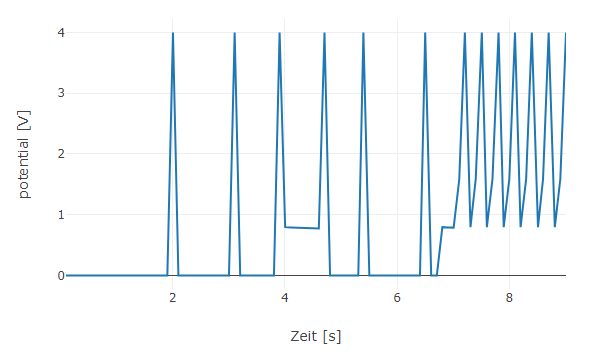
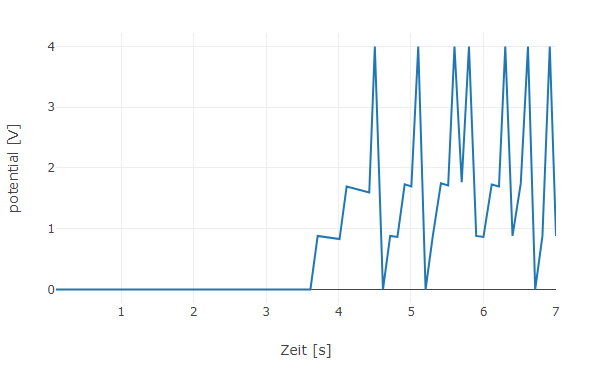
experiments

diff --git a/documentation.html b/documentation.html
@@ -15,12 +15,15 @@
 <body class="container mt-2 mb-2">
     
 
+<div id="documentation">
+
 <h1>Dokumentation   <a href="./">Zur&uuml;ck zur Neuronen Simulation</a>  <a href="https://github.com/VerrroS/spiking-neurons" id="github" target="_blank"><span class="iconify" data-icon="akar-icons:github-fill"></span></a></h1>
 <h2>Technische Dokumentation</h2>
 <p>Ich habe mich gegen ein Framework wie Tensorflow entschieden. Die Lösung ist nur in JavaScript, Html und Css implementiert. Zusätzlich habe ich <a href="https://plotly.com/javascript/">Plotly.js</a> verwendet um die Signale der einzelnen Neuronen grafisch anzuzeigen.
 Um das Layout zu gestalten habe ich <a href="https://getbootstrap.com/">Bootstrap</a> und <a href="https://iconify.design/">Iconify</a> verwendet.</p>
 <h2>Fachliche Dokumentation</h2>
-<p>Die Klasse <strong>Neuron</strong> beinhaltet die wichtigste Logik der Simulation. Ein Neuron wird initalisiert mit einem Rest Potential, einer Spike Threshold, einem leakage Wert und einer Synaptic weight. Diese Werte können vom Benutzer eingestellt werden.</p>
+<p>Die Klasse <strong>Neuron</strong> beinhaltet die wichtigste Logik der Simulation. Ein Neuron wird initalisiert mit einem Rest Potential, einer Spike Threshold, einem leakage Wert und einer Synaptic weight. Diese Werte können vom Benutzer eingestellt werden.
+Jedes Neuron hat eine Liste von anderen Neuronen, die mit diesem verbunden sind.</p>
 <div class="codehilite"><pre><span></span><code><span class="k">class</span><span class="w"> </span><span class="n">Neuron</span><span class="w"> </span><span class="p">{</span><span class="w"></span>
 <span class="w">    </span><span class="n">constructor</span><span class="p">(</span><span class="n">x</span><span class="p">,</span><span class="w"> </span><span class="n">y</span><span class="p">,</span><span class="w"> </span><span class="n">neuron_id</span><span class="p">,</span><span class="w"> </span><span class="n">leakage</span><span class="p">,</span><span class="w"> </span><span class="n">synaptic_weight</span><span class="p">,</span><span class="w"> </span><span class="n">spike_threshold</span><span class="p">){</span><span class="w"></span>
 <span class="w">        </span><span class="n">this</span><span class="o">.</span><span class="n">x</span><span class="w"> </span><span class="o">=</span><span class="w"> </span><span class="n">x</span><span class="p">;</span><span class="w"></span>
@@ -32,7 +35,7 @@ Um das Layout zu gestalten habe ich <a href="https://getbootstrap.com/">Bootstra
 <span class="w">        </span><span class="n">this</span><span class="o">.</span><span class="n">leakage</span><span class="w"> </span><span class="o">=</span><span class="w"> </span><span class="n">parseFloat</span><span class="p">(</span><span class="n">leakage</span><span class="p">);</span><span class="w"></span>
 <span class="w">        </span><span class="n">this</span><span class="o">.</span><span class="n">synaptic_weight</span><span class="w"> </span><span class="o">=</span><span class="w"> </span><span class="n">parseFloat</span><span class="p">(</span><span class="n">synaptic_weight</span><span class="p">);</span><span class="w"></span>
 <span class="w">        </span><span class="n">this</span><span class="o">.</span><span class="n">spike_threshold</span><span class="w"> </span><span class="o">=</span><span class="w"> </span><span class="n">parseFloat</span><span class="p">(</span><span class="n">spike_threshold</span><span class="p">);</span><span class="w"></span>
-<span class="w">        </span><span class="n">this</span><span class="o">.</span><span class="n">timestep</span><span class="w"> </span><span class="o">=</span><span class="w"> </span><span class="mf">0.01</span><span class="p">;</span><span class="w"></span>
+<span class="w">        </span><span class="n">this</span><span class="o">.</span><span class="n">timestep</span><span class="w"> </span><span class="o">=</span><span class="w"> </span><span class="mi">1</span><span class="p">;</span><span class="w"></span>
 <span class="w">        </span><span class="n">this</span><span class="o">.</span><span class="n">circle</span><span class="w"> </span><span class="o">=</span><span class="w"> </span><span class="n">document</span><span class="o">.</span><span class="n">createElementNS</span><span class="p">(</span><span class="n">svgns</span><span class="p">,</span><span class="w"> </span><span class="s2">&quot;circle&quot;</span><span class="p">);</span><span class="w"></span>
 <span class="w">        </span><span class="n">this</span><span class="o">.</span><span class="n">circle</span><span class="o">.</span><span class="n">classList</span><span class="o">.</span><span class="n">add</span><span class="p">(</span><span class="s2">&quot;neuron&quot;</span><span class="p">);</span><span class="w"></span>
 <span class="w">        </span><span class="n">this</span><span class="o">.</span><span class="n">circle</span><span class="o">.</span><span class="n">classList</span><span class="o">.</span><span class="n">add</span><span class="p">(</span><span class="s2">&quot;svg_element&quot;</span><span class="p">);</span><span class="w"></span>
@@ -87,7 +90,7 @@ Um das Layout zu gestalten habe ich <a href="https://getbootstrap.com/">Bootstra
 }<span class="c1">;</span>
 </code></pre></div>
 
-<p>Die Methode <strong>update()</strong>, aus der Klasse Neuron, wird in jedem Frame aufgerufen. Sie berechnet die Neuronen Potentiale und setzt die Neuronen auf den neuen Werten.
+<p>Die Methode <strong>update()</strong>, aus der Klasse Neuron, wird jede Sekunde aufgerufen. Sie berechnet die Neuronen Potentiale und setzt die Neuronen auf den neuen Werten.
 Liegt das Potentioal über dem Spike Threshold wird ein Spike ausgelöst. Dieser wird dann in die <strong>spike()</strong> Funktion übergeben. Die verlinkten Neuronen 
 werden je nach Synaptischem Gewicht auch aktualisiert. Um das Potential über die Zeit anzeigen zu können wird ein Array mit den Potentialen und ein Array mit den Zeiten gespeichert.
 Sobald das Neuron angeklickt wird werden diese Werte in einem Plot angezeigt.</p>
@@ -109,7 +112,7 @@ Sobald das Neuron angeklickt wird werden diese Werte in einem Plot angezeigt.</p
 </code></pre></div>
 
 <p>In der <strong>spike()</strong> Methode bekommt das Neuron die Klasse spike und wird dementsprechend in einer anderen Farbe dargestellt. Ist der Sound aktiviert, wird ein Ton abgespielt.
-Das synaptische Gewicht wird an die verlinkten Neuronen übergeben.</p>
+Das synaptische Gewicht wird an die verlinkten Neuronen übergeben. Ein Spike wird entweder durch die upadte Methode oder durch einen Klick auf das Neuron ausgelöst.</p>
 <div class="codehilite"><pre><span></span><code><span class="nv">spike</span><span class="ss">()</span>{
     <span class="nv">this</span>.<span class="nv">potential</span> <span class="o">=</span> <span class="mi">4</span>.<span class="mi">0</span><span class="c1">;</span>
     <span class="nv">neurons_nodes</span>[<span class="nv">this</span>.<span class="nv">id</span>].<span class="nv">classList</span>.<span class="nv">add</span><span class="ss">(</span><span class="s2">&quot;</span><span class="s">spiked</span><span class="s2">&quot;</span><span class="ss">)</span><span class="c1">;</span>
@@ -123,13 +126,13 @@ Das synaptische Gewicht wird an die verlinkten Neuronen übergeben.</p>
 </code></pre></div>
 
 <h3 id="leakage">
-Leaky Integrate-and-Fire
+Leaky Integrate-and-Fire Modell
 </h3>
 
 <p>Wenn das Neuron keinen Input bekommt nimmt das Potential (V) des Neurons über die Zeit(t) exponentiell ab und nähert sich dem Wert 0. Wie schnell dieses Potential sinkt wird durch den Leakage Wert(tau)
 eingestellt. Dieser Abfall wird durch folgende Funktion beschrieben.</p>
 <p><img alt="equasion" src="tau.svg" /></p>
-<p>Je größer der Leakage Wer ist desto schneller sinkt das Potential. In der Methode <strong>update()</strong> wird der Abfall des Potentials mit der Konstanten alpha berechnet.
+<p>Je größer der Leakage Wer ist desto langsamer sinkt das Potential. Der Wert gibt an nach Welcher Zeit sich das Potential um den Faktor 1/e reduziert. In der Methode <strong>update()</strong> wird der Abfall des Potentials mit der Konstanten alpha berechnet.
 Die Herleitung dieser Berechnung ist in der stammt aus folgendem <a href="https://colab.research.google.com/github/neural-reckoning/cosyne-tutorial-2022/blob/main/1-lif.ipynb#scrollTo=febd51da">Dokument</a>.</p>
 <h2>Quellen</h2>
 <ul>
@@ -138,6 +141,8 @@ Die Herleitung dieser Berechnung ist in der stammt aus folgendem <a href="https:
 <li><a href="https://neural-reckoning.github.io/cosyne-tutorial-2022/" target="_blank">Cosyne Tutorial 2022 - Spiking Neural Networks</a></li>
 <li><a href="https://colab.research.google.com/github/neural-reckoning/cosyne-tutorial-2022/blob/main/1-lif.ipynb" target="_blank">The Leaky Integrate-and-Fire (LIF) neuron</a></li>
 </ul>
+
+</div>
 
 
 </body>

diff --git a/index.html b/index.html
@@ -46,7 +46,7 @@
         <div id="settings-helper">
           <p><strong>Anzahl der Neuronen</strong> gibt an wie viele Neuronen in der Simulation enthalten sind.</p>
 <p><strong>Vernetzungswahrscheinlichkeit</strong> gibt mit welcher Wahrscheinlichkeit ein Neuron mit einem anderen verbunden ist.</p>
-<p><strong>Leakage</strong> gibt schnell das Potential über die Zeit abnimmt <a href="/documentation.html#leakage">weitere Informationen</a>.</p>
+<p><strong>Leakage</strong> gibt die Zeit nach der sich das Potential um den Faktor 1/e reduziert. Je höher der Wert desto langsamer nimmt das Potential ab. <a href="/documentation.html#leakage">weitere Informationen</a>.</p>
 <p><strong>Spike Threshold</strong> gibt an wie hoch das Potential eins Neurons sein muss, um einen Spike zu erzeugen.</p>
 <p><strong>Synaptic weight</strong> gibt an wie stark ein Neuron mit einem anderen verbunden ist.</p>
         </div>
@@ -84,7 +84,7 @@
 </div>
   <div class="col-lg-6">
     <div id="plot-container">
-      <h4 id="plot-nonactive" class="active">Klicken sie auf eines der Neuronen um dessen Potential zu sehen</h4>
+      <h4 id="plot-nonactive" class="active">Klicken Sie auf eines der Neuronen um dessen Potential zu sehen</h4>
       <h4 id="plot-active">Potential des ausgewählten Neuron 
         <svg xmlns="http://www.w3.org/2000/svg" aria-hidden="true" role="img" width="1em" height="1em" preserveAspectRatio="xMidYMid meet" viewBox="0 0 24 24"><circle cx="12" cy="12" r="10" fill="none" stroke="orange" stroke-width="4"/></svg>
         <div class="help-icon" data-key="diagramm-helper">
@@ -99,31 +99,40 @@
   </div>
 </div>
 
-<section class="mt-4">
+<section class="mt-4" id="experimente">
   <h2>Experimente und Fragestellungen</h2>
-<p><strong>Experimente mit unterschiedlich dichter und starker (Synapsen) Vernetzung</strong></p>
+<p>Experimente mit unterschiedlich dichter und starker (Synapsen) Vernetzung.
+Welchen Einfluss hat die initiale Anregung des Netzes auf den Endzustand?
+Welche anderen Dynamiken außer der Sättigung und dem Versiegen von Aktivität ist prinzipiell möglich? Gelingt es eine solche Dynamik zu erzeugen?</p>
 <ul>
 <li>
-<p><strong>Anzahl 10, Vernetzungswahrscheinlichkeit 30%, Synaptic Weight 0.5</strong></p>
+<p>Vernetzungswahrscheinlichkeit 30%, Synaptic Weight 0,9, Leakage 10,0, Spike Threshold 2,0</p>
 <ul>
-<li>Um eine Anregung der Neuronen zu starten sind mehrere Spikes in kurzen Zeitabständen zueinander nötig. Nach einer kurzen Phase in der sich die Neuronen gegenseitig aktivieren, versiegt das Potential wieder schnell. </li>
-<li>Erhöht man die Anzahl der Neuronen auf 60, erreicht man nach 3 initialen Spikes ein konstant hohes Potential bei allen Neuronen.
-<img alt="" src="3spikes.png" /></li>
-</ul>
-</li>
-<li>
-<p><strong>Anzahl 10, Vernetzungswahrscheinlichkeit 60%, Synaptic Weight 0.9</strong></p>
-<ul>
-<li>Die Anregung der Neuronen erfolgt bereits nach zwei initialen Spikes. Danach bleiben die Neuronen konstant auf einem hohen Level.
+<li>Bei der Anzahl von <strong>10 Neuronen</strong> ist keine Anregung des Netzes möglich. Auch bei wiederholter initialer Anregung erreichen die verknüpften Neuronen kein Spike.
+<img alt="" src="no_spikes.png" /></li>
+<li>Erhöht man die <strong>Anzahl der Neuronen</strong> auf <strong>100</strong>, erreicht man mit nur zwei initialen Spikes einen Zusatnd in dem das Potetial der Neuronen nicht mehr abfällt.
 <img alt="" src="all_spiked.png" /></li>
 </ul>
 </li>
-</ul>
-<p><strong>Welchen Einfluss hat die initiale Anregung des Netzes auf den Endzustand.</strong></p>
-<p><strong>Welche anderen Dynamiken außer der Sättigung und dem Versiegen von Aktivität ist prinzipiell möglich? Gelingt es Ihnen Eine solche Dynamik zu erzeugen?</strong></p>
+<li>
+<p><strong>Vernetzungswahrscheinlichkeit 60%</strong>, <strong>Synaptic Weight 1,2</strong>, Leakage 10,0, Spike Threshold 2,0</p>
 <ul>
-<li><strong>Anzahl 121, Vernetzungswahrscheinlichkeit 3.8%, Synaptic Weight 0.8</strong><ul>
-<li>nachdem initial 6 Spikes ausgelöst wurden ergibt sich ein flmmer Zustand. Einige Neuronen 
+<li>Bei einer <strong>Anzahl von 10</strong> Neuronen erfolgt die Anregung bereits nach einem initialen Spike. Danach bleiben die Neuronen konstant auf einem hohen Level.</li>
+<li>Den gleichen Effekt erziehlt man mit <strong>100 Neuronen</strong></li>
+</ul>
+</li>
+<li>
+<p><strong>Vernetzungswahrscheinlichkeit 3,9%</strong>, Synaptic Weight 0,9, <strong>Leakage 50,0</strong>, Spike Threshold 2,0</p>
+<ul>
+<li>Bei einer <strong>Anzahl von 60</strong> Neuronen erreicht man mit regelmäßiger Anregung in kurzen Abständen eines Neurons immer wieder kurze Aktivitäten im Netz.
+<img alt="" src="aktiv.png" /></li>
+<li>Erhöht man die zeitlichen Abstände der Anregung werden die Aktivitätsphasen kürzer.</li>
+</ul>
+</li>
+<li>
+<p><strong>Anzahl 98</strong>, <strong>Vernetzungswahrscheinlichkeit 3,9%</strong>, Synaptic Weight 0,9, <strong>Leakage 50,0</strong>, Spike Threshold 2,0</p>
+<ul>
+<li>nachdem initial 6 Spikes ausgelöst wurden ergibt sich ein flimmer Zustand ohne, dass weitere Spikes manuell hinzugefügt werden müssen. Einige Neuronen Spiken immer wieder und fallen anschließend nicht mehr auf ihr Restpotential (0) zurück.
 <img alt="" src="flimmern.png" /></li>
 </ul>
 </li>

diff --git a/templates/index.html b/templates/index.html
@@ -35,7 +35,7 @@
 
           **Vernetzungswahrscheinlichkeit** gibt mit welcher Wahrscheinlichkeit ein Neuron mit einem anderen verbunden ist.
 
-          **Leakage** gibt schnell das Potential über die Zeit abnimmt [weitere Informationen](/documentation.html#leakage).
+          **Leakage** gibt die Zeit nach der sich das Potential um den Faktor 1/e reduziert. Je höher der Wert desto langsamer nimmt das Potential ab. [weitere Informationen](/documentation.html#leakage).
 
           **Spike Threshold** gibt an wie hoch das Potential eins Neurons sein muss, um einen Spike zu erzeugen.
 
@@ -76,7 +76,7 @@
 </div>
   <div class="col-lg-6">
     <div id="plot-container">
-      <h4 id="plot-nonactive" class="active">Klicken sie auf eines der Neuronen um dessen Potential zu sehen</h4>
+      <h4 id="plot-nonactive" class="active">Klicken Sie auf eines der Neuronen um dessen Potential zu sehen</h4>
       <h4 id="plot-active">Potential des ausgewählten Neuron 
         <svg xmlns="http://www.w3.org/2000/svg" aria-hidden="true" role="img" width="1em" height="1em" preserveAspectRatio="xMidYMid meet" viewBox="0 0 24 24"><circle cx="12" cy="12" r="10" fill="none" stroke="orange" stroke-width="4"/></svg>
         <div class="help-icon" data-key="diagramm-helper">
@@ -91,28 +91,32 @@
   </div>
 </div>
 
-<section class="mt-4">
+<section class="mt-4" id="experimente">
   {% markdown %}
 
   ## Experimente und Fragestellungen
 
-  **Experimente mit unterschiedlich dichter und starker (Synapsen) Vernetzung**
+  Experimente mit unterschiedlich dichter und starker (Synapsen) Vernetzung.
+  Welchen Einfluss hat die initiale Anregung des Netzes auf den Endzustand?
+  Welche anderen Dynamiken außer der Sättigung und dem Versiegen von Aktivität ist prinzipiell möglich? Gelingt es eine solche Dynamik zu erzeugen?
 
-  - **Anzahl 10, Vernetzungswahrscheinlichkeit 30%, Synaptic Weight 0.5**
-      * Um eine Anregung der Neuronen zu starten sind mehrere Spikes in kurzen Zeitabständen zueinander nötig. Nach einer kurzen Phase in der sich die Neuronen gegenseitig aktivieren, versiegt das Potential wieder schnell. 
-      * Erhöht man die Anzahl der Neuronen auf 60, erreicht man nach 3 initialen Spikes ein konstant hohes Potential bei allen Neuronen.
-      ![](3spikes.png)
-
-  - **Anzahl 10, Vernetzungswahrscheinlichkeit 60%, Synaptic Weight 0.9**
-      * Die Anregung der Neuronen erfolgt bereits nach zwei initialen Spikes. Danach bleiben die Neuronen konstant auf einem hohen Level.
+  - Vernetzungswahrscheinlichkeit 30%, Synaptic Weight 0,9, Leakage 10,0, Spike Threshold 2,0
+      * Bei der Anzahl von **10 Neuronen** ist keine Anregung des Netzes möglich. Auch bei wiederholter initialer Anregung erreichen die verknüpften Neuronen kein Spike.
+      ![](no_spikes.png)
+      * Erhöht man die **Anzahl der Neuronen** auf **100**, erreicht man mit nur zwei initialen Spikes einen Zusatnd in dem das Potetial der Neuronen nicht mehr abfällt.
       ![](all_spiked.png)
 
-  **Welchen Einfluss hat die initiale Anregung des Netzes auf den Endzustand.**
+  - **Vernetzungswahrscheinlichkeit 60%**, **Synaptic Weight 1,2**, Leakage 10,0, Spike Threshold 2,0
+      * Bei einer **Anzahl von 10** Neuronen erfolgt die Anregung bereits nach einem initialen Spike. Danach bleiben die Neuronen konstant auf einem hohen Level.
+      * Den gleichen Effekt erziehlt man mit **100 Neuronen**
 
-  **Welche anderen Dynamiken außer der Sättigung und dem Versiegen von Aktivität ist prinzipiell möglich? Gelingt es Ihnen Eine solche Dynamik zu erzeugen?**
+  - **Vernetzungswahrscheinlichkeit 3,9%**, Synaptic Weight 0,9, **Leakage 50,0**, Spike Threshold 2,0
+      * Bei einer **Anzahl von 60** Neuronen erreicht man mit regelmäßiger Anregung in kurzen Abständen eines Neurons immer wieder kurze Aktivitäten im Netz.
+      ![](aktiv.png)
+      * Erhöht man die zeitlichen Abstände der Anregung werden die Aktivitätsphasen kürzer.
 
-  - **Anzahl 121, Vernetzungswahrscheinlichkeit 3.8%, Synaptic Weight 0.8**
-      * nachdem initial 6 Spikes ausgelöst wurden ergibt sich ein flmmer Zustand. Einige Neuronen 
+  - **Anzahl 98**, **Vernetzungswahrscheinlichkeit 3,9%**, Synaptic Weight 0,9, **Leakage 50,0**, Spike Threshold 2,0
+      * nachdem initial 6 Spikes ausgelöst wurden ergibt sich ein flimmer Zustand ohne, dass weitere Spikes manuell hinzugefügt werden müssen. Einige Neuronen Spiken immer wieder und fallen anschließend nicht mehr auf ihr Restpotential (0) zurück.
       ![](flimmern.png)
 
   {% endmarkdown %}

diff --git a/templates/documentation.html b/templates/documentation.html
@@ -1,6 +1,8 @@
 {% extends "layout.html" %}
 {% block main %}
 
+<div id="documentation">
+
 {% markdown %}
 
 # Dokumentation   <a href="./">Zur&uuml;ck zur Neuronen Simulation</a>  <a href="https://github.com/VerrroS/spiking-neurons" id="github" target="_blank"><span class="iconify" data-icon="akar-icons:github-fill"></span></a>
@@ -14,6 +16,7 @@ Um das Layout zu gestalten habe ich [Bootstrap](https://getbootstrap.com/) und [
 ## Fachliche Dokumentation
 
 Die Klasse **Neuron** beinhaltet die wichtigste Logik der Simulation. Ein Neuron wird initalisiert mit einem Rest Potential, einer Spike Threshold, einem leakage Wert und einer Synaptic weight. Diese Werte können vom Benutzer eingestellt werden.
+Jedes Neuron hat eine Liste von anderen Neuronen, die mit diesem verbunden sind.
 
 
     class Neuron {
@@ -27,7 +30,7 @@ Die Klasse **Neuron** beinhaltet die wichtigste Logik der Simulation. Ein Neuron
             this.leakage = parseFloat(leakage);
             this.synaptic_weight = parseFloat(synaptic_weight);
             this.spike_threshold = parseFloat(spike_threshold);
-            this.timestep = 0.01;
+            this.timestep = 1;
             this.circle = document.createElementNS(svgns, "circle");
             this.circle.classList.add("neuron");
             this.circle.classList.add("svg_element");
@@ -82,7 +85,7 @@ Mit der Funktion **resetNeurons()** werden die Neuronen initialisiert und je nac
     };
 
 
-Die Methode **update()**, aus der Klasse Neuron, wird in jedem Frame aufgerufen. Sie berechnet die Neuronen Potentiale und setzt die Neuronen auf den neuen Werten.
+Die Methode **update()**, aus der Klasse Neuron, wird jede Sekunde aufgerufen. Sie berechnet die Neuronen Potentiale und setzt die Neuronen auf den neuen Werten.
 Liegt das Potentioal über dem Spike Threshold wird ein Spike ausgelöst. Dieser wird dann in die **spike()** Funktion übergeben. Die verlinkten Neuronen 
 werden je nach Synaptischem Gewicht auch aktualisiert. Um das Potential über die Zeit anzeigen zu können wird ein Array mit den Potentialen und ein Array mit den Zeiten gespeichert.
 Sobald das Neuron angeklickt wird werden diese Werte in einem Plot angezeigt.
@@ -104,7 +107,7 @@ Sobald das Neuron angeklickt wird werden diese Werte in einem Plot angezeigt.
     }
 
 In der **spike()** Methode bekommt das Neuron die Klasse spike und wird dementsprechend in einer anderen Farbe dargestellt. Ist der Sound aktiviert, wird ein Ton abgespielt.
-Das synaptische Gewicht wird an die verlinkten Neuronen übergeben.
+Das synaptische Gewicht wird an die verlinkten Neuronen übergeben. Ein Spike wird entweder durch die upadte Methode oder durch einen Klick auf das Neuron ausgelöst.
 
     spike(){
         this.potential = 4.0;
@@ -119,7 +122,7 @@ Das synaptische Gewicht wird an die verlinkten Neuronen übergeben.
 
 
 <h3 id="leakage">
-Leaky Integrate-and-Fire
+Leaky Integrate-and-Fire Modell
 </h3>
 
 Wenn das Neuron keinen Input bekommt nimmt das Potential (V) des Neurons über die Zeit(t) exponentiell ab und nähert sich dem Wert 0. Wie schnell dieses Potential sinkt wird durch den Leakage Wert(tau)
@@ -127,7 +130,7 @@ eingestellt. Dieser Abfall wird durch folgende Funktion beschrieben.
 
 ![equasion](tau.svg)
 
-Je größer der Leakage Wer ist desto schneller sinkt das Potential. In der Methode **update()** wird der Abfall des Potentials mit der Konstanten alpha berechnet.
+Je größer der Leakage Wer ist desto langsamer sinkt das Potential. Der Wert gibt an nach Welcher Zeit sich das Potential um den Faktor 1/e reduziert. In der Methode **update()** wird der Abfall des Potentials mit der Konstanten alpha berechnet.
 Die Herleitung dieser Berechnung ist in der stammt aus folgendem [Dokument](https://colab.research.google.com/github/neural-reckoning/cosyne-tutorial-2022/blob/main/1-lif.ipynb#scrollTo=febd51da).
 
 
@@ -139,5 +142,7 @@ Die Herleitung dieser Berechnung ist in der stammt aus folgendem [Dokument](http
 - [The Leaky Integrate-and-Fire (LIF) neuron](https://colab.research.google.com/github/neural-reckoning/cosyne-tutorial-2022/blob/main/1-lif.ipynb){:target="_blank"}
 
 {% endmarkdown %}
+
+</div>
 
 {% endblock %}

diff --git a/style.css b/style.css
@@ -21,6 +21,10 @@
     margin-left: auto;
   }
 
+  #documentation h3, #documentation h4, #documentation p, #documentation li, #documentation pre {
+    margin-left: 3rem;
+  }
+
   #svg_canvas {
     width: 100%;
     height: 600px;
@@ -169,6 +173,12 @@ h1 a{
   color: darkslategray;
 }
 
+#experimente img{
+  max-width: 600px;
+  display: block;
+  width: 100%;
+}
+
 pre {
   background-color: darkslategrey;
   color: white;
@@ -195,3 +205,21 @@ pre {
       font-size: 1.5rem!important;
   }
 }
+
+@media  screen and (max-width: 992px) {
+ #plot-container {
+    position: relative;
+
+  }
+  #plot{
+    overflow: scroll;
+  }
+  .plotly{
+    height: 500px;
+    min-width: 600px;
+  }
+  #documentation h3, #documentation h4, #documentation p, #documentation li, #documentation pre {
+    margin-left: 0;
+  }
+}
+  

diff --git a/neuron.js b/neuron.js
@@ -29,7 +29,7 @@ class Neuron {
         this.leakage = parseFloat(leakage);
         this.synaptic_weight = parseFloat(synaptic_weight);
         this.spike_threshold = parseFloat(spike_threshold);
-        this.timestep = 0.1;
+        this.timestep = 1;
         this.circle = document.createElementNS(svgns, "circle");
         this.circle.classList.add("neuron");
         this.circle.classList.add("svg_element");
